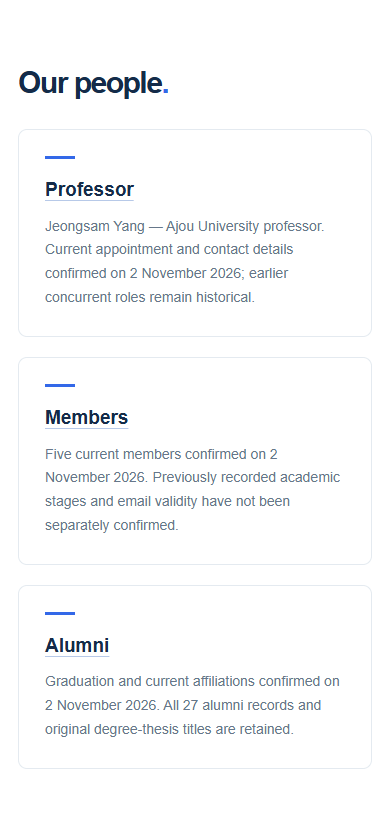
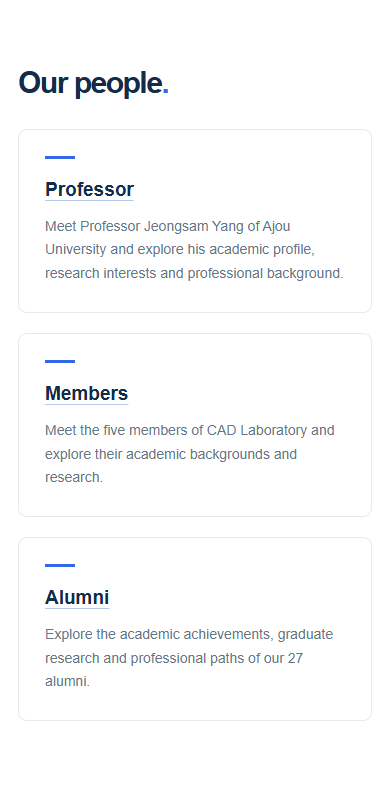
Refine People summaries for public website

diff --git a/assets/content.js b/assets/content.js
@@ -11,9 +11,9 @@ about: "The CAD (Computer-Aided Design) Laboratory is an integral unit of the De
     { title: "AR / VR", description: "Immersive visualization and engineering education." }
   ],
   people: [
-    {title: "Professor", description: "Jeongsam Yang — Ajou University professor. Current appointment and contact details confirmed on 2 November 2026; earlier concurrent roles remain historical.", href: "people/professor.html"},
-    {title: "Members", description: "Five current members confirmed on 2 November 2026. Previously recorded academic stages and email validity have not been separately confirmed.", href: "people/members.html"},
-    {title: "Alumni", description: "Graduation and current affiliations confirmed on 2 November 2026. All 27 alumni records and original degree-thesis titles are retained.", href: "people/alumni.html"}
+    {title: "Professor", description: "Meet Professor Jeongsam Yang of Ajou University and explore his academic profile, research interests and professional background.", href: "people/professor.html"},
+    {title: "Members", description: "Meet the five members of CAD Laboratory and explore their academic backgrounds and research.", href: "people/members.html"},
+    {title: "Alumni", description: "Explore the academic achievements, graduate research and professional paths of our 27 alumni.", href: "people/alumni.html"}
   ],
   publications: [
     {title: "International Journal Papers", detail: "Year-organized journal records with original bibliographic details.", href: "publications/international.html"},

diff --git a/.github/review/hero/README.md b/.github/review/hero/README.md
@@ -17,3 +17,7 @@ Adds the user's original `img-cad.gif` as `assets/cadlab-group.gif` below the Ko
 ## Section heading cleanup
 
 Removed the two requested description paragraphs beside Research areas and Our people. All six cards and source records are preserved. Five-width checks confirm both paragraphs are absent and each section retains three cards. Desktop and mobile section screenshots are included.
+
+## Professional People summaries
+
+Rewrites the three homepage People card descriptions for public-facing presentation. Removes verification dates and internal record-maintenance caveats. Professor, Members and Alumni detail pages and all underlying records remain unchanged. The content guard permits only these three approved summary descriptions to differ from its original baseline; all other homepage data remains protected. Five-width layout checks passed and People screenshots were refreshed.
